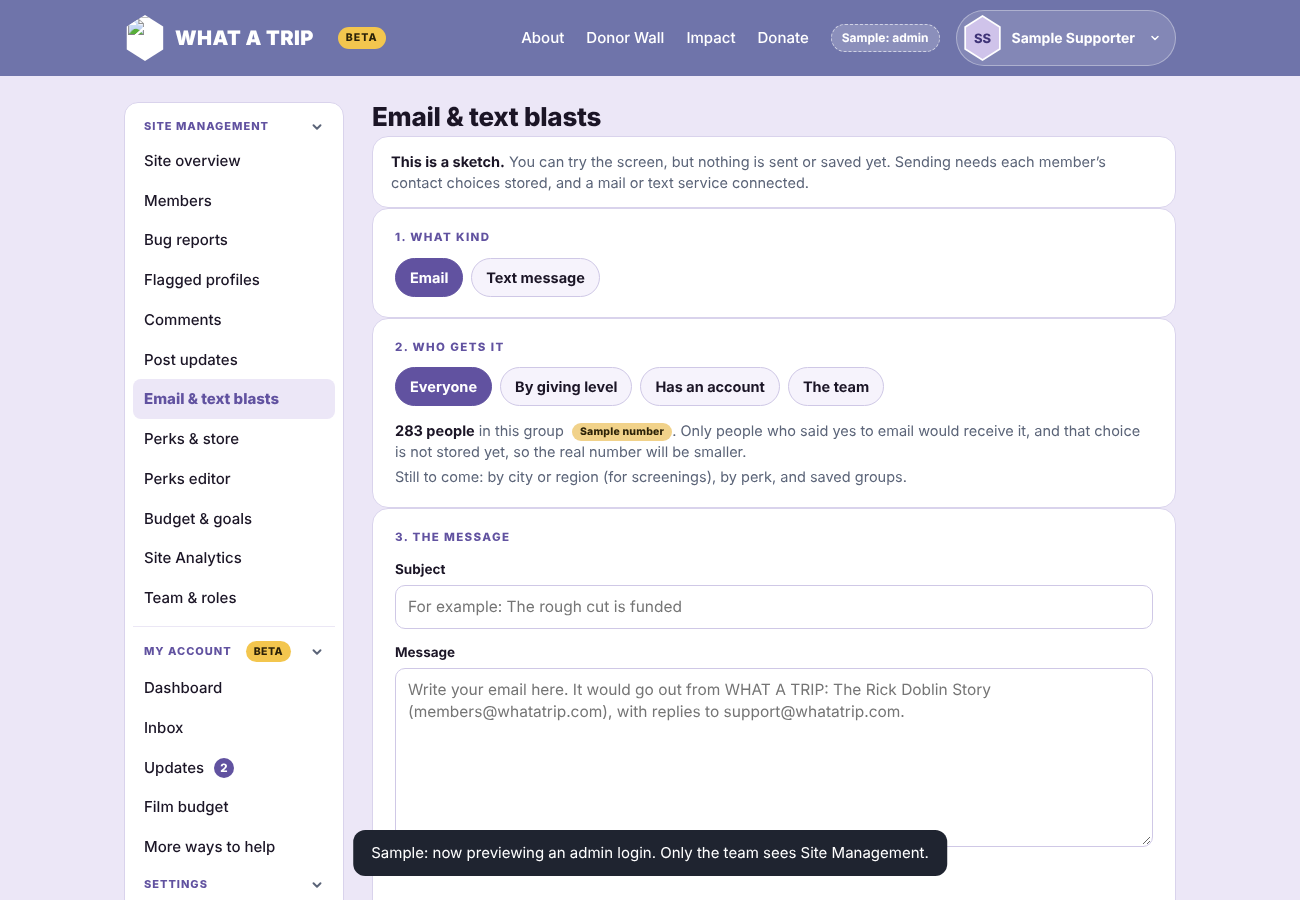
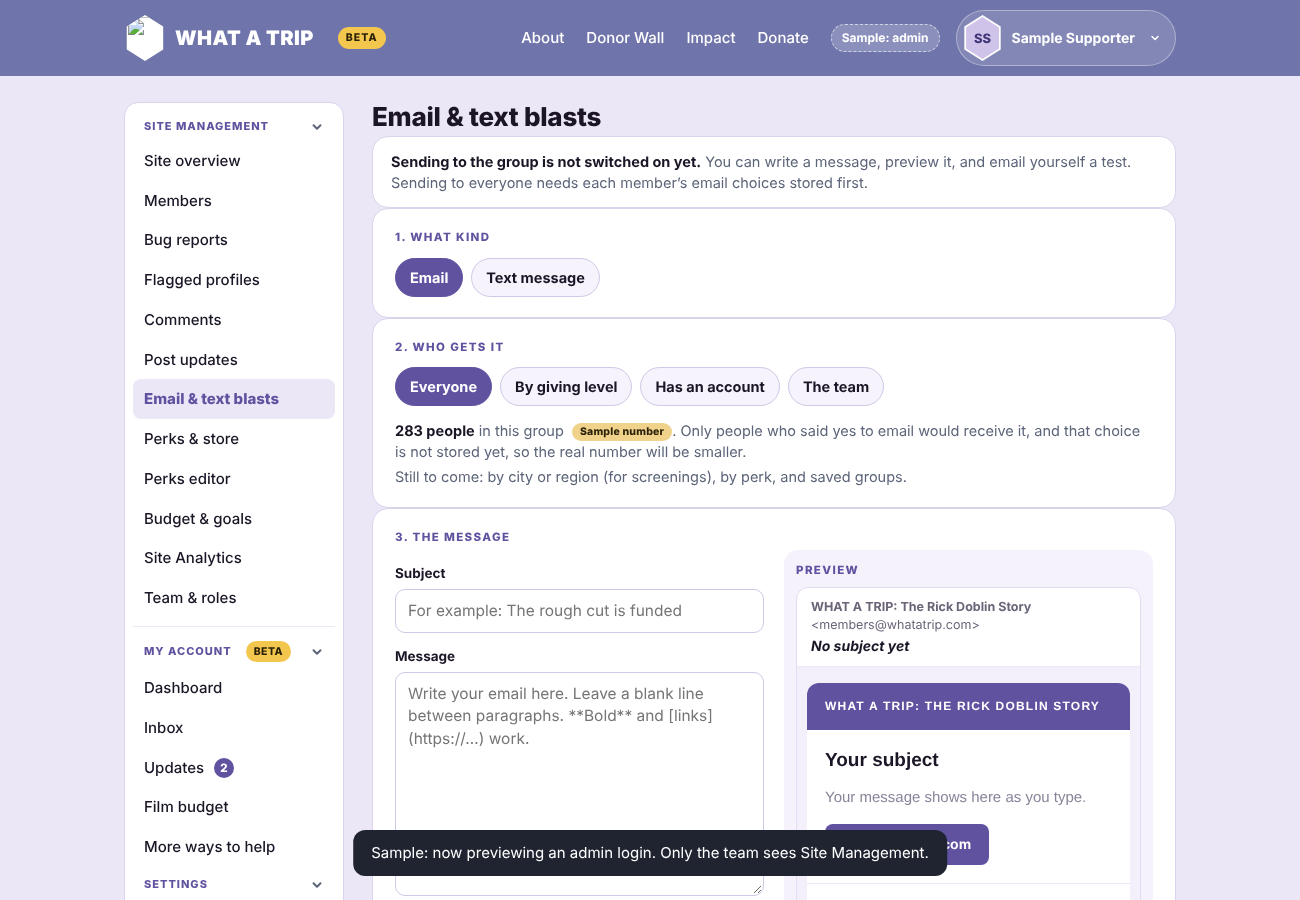
Blasts: live email/text preview and real 'Send a test to me' (blast-test function)
Claude-Session: https://claude.ai/code/session_01B4g6Jr5SafogaXZoJmXf7b

diff --git a/home-page/home-block.html b/home-page/home-block.html
@@ -1853,6 +1853,15 @@ html.wath-framed :is(#wath,#wath-top) .pvb{display:none}
 #wath .suplist.scr{max-height:var(--suph);overflow-y:auto;overflow-x:hidden;overscroll-behavior-y:auto;scrollbar-width:thin;scrollbar-color:#cfc6ea transparent;-webkit-mask-image:linear-gradient(to bottom,transparent 0,#000 14px,#000 calc(100% - 28px),transparent 100%);mask-image:linear-gradient(to bottom,transparent 0,#000 14px,#000 calc(100% - 28px),transparent 100%);padding-top:6px;padding-bottom:22px}
 #wath .suplist.scr::-webkit-scrollbar{width:6px}#wath .suplist.scr::-webkit-scrollbar-thumb{background:#cfc6ea;border-radius:6px}
 #wath .suplist>.dn.bgrow.bgin .av{transition:transform .26s cubic-bezier(.2,1.6,.4,1)!important}
+.mov .blg{display:grid;grid-template-columns:minmax(0,1fr) minmax(0,1fr);gap:20px;align-items:start}
+@media (max-width:860px){.mov .blg{grid-template-columns:1fr}}
+.mov .blpv{padding:12px;border-radius:14px;background:#f5f2fc}
+.mov .blem{border-radius:12px;overflow:hidden;border:1px solid #e3ddf3;background:#fff;margin-top:8px}
+.mov .blemh{display:flex;flex-direction:column;gap:2px;padding:10px 14px;border-bottom:1px solid #ece7f7;font-size:12.5px;color:#6b6478}
+.mov .blemh .blsub{font-size:14px;font-weight:700;color:#1b1526}
+.mov .blph{margin:8px auto 0;max-width:300px;padding:18px 14px 14px;border-radius:26px;background:#fff;border:1px solid #e3ddf3}
+.mov .blbub{display:inline-block;max-width:85%;padding:10px 13px;border-radius:18px 18px 18px 6px;background:#ece9f3;color:#1b1526;font-size:14px;line-height:1.4}
+.mov .blphf{display:block;margin-top:8px;font-size:11.5px;color:#8a849a}
 .mov .adots{position:relative;display:inline-flex}
 .mov .amng button.adotb{width:36px!important;height:36px!important;min-width:36px;box-sizing:border-box;flex:none;border-radius:50%;border:1px solid rgba(27,21,38,.16);background:#fff;color:#1b1526;display:inline-flex;align-items:center;justify-content:center;cursor:pointer;padding:0}
 .mov .amng button.adotb:hover{background:#f1eef8}
@@ -2998,11 +3007,19 @@ var BUG_ICO='<svg class="mbug" aria-hidden="true" width="17" height="17" viewBox
    Nothing is sent. Sending needs members' contact choices saved in the database and a mail / text service plugged in. */
 var BL={kind:'email',aud:'all',lvl:5000,role:'any'};
 function blastCount(){if(!LIVE)return {n:BL.aud==='all'?283:BL.aud==='level'?Math.max(2,Math.round(140000/(BL.lvl+900))):BL.aud==='team'?3:24,smp:1};if(!LV.rows)return null;var R=LV.rows.filter(function(x){return !x.sample});return {n:(BL.aud==='level'?R.filter(function(x){return x.total>=BL.lvl}):BL.aud==='team'?R.filter(function(x){return x.role}):BL.aud==='in'?R.filter(function(x){return x.inn}):R).length}}
+/* Nov 18 6:37am (Nirvan): blasts show a live preview, and an email blast can be sent as a test to yourself first (edge function blast-test, same layout the real blast will use) */
+function blInline(x){return esc(x).replace(/\*\*([^*]+)\*\*/g,'<b>$1</b>').replace(/\[([^\]]+)\]\((https?:\/\/[^)\s]+)\)/g,'<a href="$2" target="_blank" rel="noopener" style="color:#6152a0">$1</a>').replace(/\n/g,'<br>')}
+function blSms(){var t=String(BL.sms||'').trim();return (t?t+'\n':'')+'WHAT A TRIP. Reply STOP to opt out.'}
+function blPreview(){if(BL.kind==='text')return '<div class="blph"><div class="blbub">'+esc(blSms()).replace(/\n/g,'<br>')+'</div><span class="blphf">Text from WHAT A TRIP</span></div>';var P=String(BL.msg||'').replace(/\r/g,'').split(/\n\s*\n/).map(function(x){return x.trim()}).filter(Boolean);
+  return '<div class="blem"><div class="blemh"><span class="blfrom"><b>WHAT A TRIP: The Rick Doblin Story</b> &lt;members@whatatrip.com&gt;</span><span class="blsub">'+(BL.subj?esc(BL.subj):'<i>No subject yet</i>')+'</span></div><div style="background:#f3f0fb;padding:16px 10px"><div style="font-family:Helvetica,Arial,sans-serif;font-size:15px;line-height:1.55;color:#1b1526;max-width:560px;margin:0 auto;background:#fff;border-radius:12px;overflow:hidden"><div style="background:#6152a0;color:#fff;padding:14px 18px;font-size:12px;font-weight:bold;letter-spacing:.1em">WHAT A TRIP: THE RICK DOBLIN STORY</div><div style="padding:18px"><p style="font-size:19px;font-weight:bold;line-height:1.3;margin:0 0 12px">'+esc(BL.subj||'Your subject')+'</p>'+(P.length?P.map(function(x){return '<p style="margin:0 0 12px">'+blInline(x)+'</p>'}).join(''):'<p style="margin:0 0 12px;color:#8a849a">Your message shows here as you type.</p>')+'<p style="margin:16px 0 0"><span style="display:inline-block;background:#6152a0;color:#fff;font-weight:bold;padding:10px 18px;border-radius:8px;font-size:14px">Visit whatatrip.com</span></p></div><div style="padding:12px 18px;border-top:1px solid #ece7f7;color:#6b6478;font-size:12px;line-height:1.5">You are getting this because you support WHAT A TRIP. To change which emails you get, log in at whatatrip.com and open Notifications &amp; privacy.</div></div></div></div>'}
+function blTest(){if(!String(BL.subj||'').trim()||!String(BL.msg||'').trim()){toast('Please add a subject and a message first.');return}if(!LIVE){toast('Preview only: on the live site this emails the test to your login address.');return}if(!SB)return;BL.busy=1;renderMember();
+  SB.functions.invoke('blast-test',{body:{subject:BL.subj,message:BL.msg}}).then(function(r){BL.busy=0;renderMember();var d=r&&r.data;if(r&&r.error){var st=r.error.context&&r.error.context.status;toast(st===403?'Only Owners and Admins can send tests.':'The test could not be sent. Please try again.');return}if(d&&d.sent)toast('Test sent to '+d.to+'. It can take a minute to arrive.');else toast(d&&d.reason==='not_set_up'?'Email sending is not switched on yet (the Resend key is missing in Supabase).':'The test could not be sent. Please try again.')},function(){BL.busy=0;renderMember();toast('The test could not be sent. Please check your connection.')})}
 function blastTab(){if(LIVE&&!LV.rows&&!LV.rowsBusy)liveAdmLoad();var k=BL.kind,c=blastCount(),A=[['all','Everyone'],['level','By giving level'],['in','Has an account'],['team','The team']],chip=function(a,v,l,on){return '<button class="mchip'+(on?' on':'')+'" data-a="'+a+'" data-t="'+v+'">'+l+'</button>'};
-  return '<h2>Email &amp; text blasts</h2><div class="mcard" style="padding:14px 18px"><p class="msub" style="margin:0"><b style="color:#1b1526">This is a sketch.</b> You can try the screen, but nothing is sent or saved yet. Sending needs each member’s contact choices stored, and a mail or text service connected.</p></div>'
+  return '<h2>Email &amp; text blasts</h2><div class="mcard" style="padding:14px 18px"><p class="msub" style="margin:0"><b style="color:#1b1526">Sending to the group is not switched on yet.</b> You can write a message, preview it, and email yourself a test. Sending to everyone needs each member’s email choices stored first.</p></div>'
    +'<div class="mcard"><span class="mtag">1. WHAT KIND</span><div class="mchips">'+chip('blk','email','Email',k==='email')+chip('blk','text','Text message',k==='text')+'</div></div>'
    +'<div class="mcard"><span class="mtag">2. WHO GETS IT</span><div class="mchips">'+A.map(function(a){return chip('bla',a[0],a[1],BL.aud===a[0])}).join('')+'</div>'+(BL.aud==='level'?'<label class="mf"><span>Everyone who has given at least</span><select data-blv aria-label="Giving level">'+LEVELS.map(function(l){return '<option value="'+l.min+'"'+(BL.lvl===l.min?' selected':'')+'>'+l.l+' · '+esc(l.n)+'</option>'}).join('')+'</select></label>':'')+'<p class="msub" style="margin:14px 0 0">'+(c?'<b style="color:#1b1526">'+c.n+' '+(c.n===1?'person':'people')+'</b> in this group'+(c.smp?' <span class="asmp">Sample number</span>':'')+'. ':'Counting… ')+'Only people who said yes to '+(k==='email'?'email':'texts')+' would receive it, and that choice is not stored yet, so the real number will be smaller.</p><p class="msub">Still to come: by city or region (for screenings), by perk, and saved groups.</p></div>'
-   +'<div class="mcard"><span class="mtag">3. THE MESSAGE</span>'+(k==='email'?'<label class="mf"><span>Subject</span><input maxlength="120" placeholder="For example: The rough cut is funded" autocomplete="off"></label><label class="mf"><span>Message</span><textarea rows="7" placeholder="Write your email here. It would go out from WHAT A TRIP: The Rick Doblin Story (members@whatatrip.com), with replies to support@whatatrip.com."></textarea></label>':'<label class="mf"><span>Text message</span><textarea rows="4" maxlength="320" placeholder="Keep it short. Texts would end with: Reply STOP to opt out."></textarea><em>Up to 320 characters. Texting also needs a texting service and carrier registration, which takes a few weeks to set up.</em></label>')+'<div class="amb" style="margin-top:14px"><button class="btn pri" data-a="toast" data-t="Sketch only: nothing was sent. Sending is not connected yet.">Send a test to me</button><button class="btn" data-a="toast" data-t="Sketch only: drafts are not saved yet.">Save draft</button></div></div>'
+   +'<div class="mcard"><span class="mtag">3. THE MESSAGE</span><div class="blg"><div>'+(k==='email'?'<label class="mf"><span>Subject</span><input data-bl="subj" maxlength="120" value="'+esc(BL.subj||'')+'" placeholder="For example: The rough cut is funded" autocomplete="off"></label><label class="mf"><span>Message</span><textarea data-bl="msg" rows="9" placeholder="Write your email here. Leave a blank line between paragraphs. **Bold** and [links](https://…) work.">'+esc(BL.msg||'')+'</textarea><em>Goes out from WHAT A TRIP: The Rick Doblin Story (members@whatatrip.com). Replies go to info@whatatrip.com.</em></label>':'<label class="mf"><span>Text message</span><textarea data-bl="sms" rows="5" maxlength="320" placeholder="Keep it short.">'+esc(BL.sms||'')+'</textarea><em><span data-blcnt>'+blSms().length+'</span> of 320 characters, including the opt-out line. Texting also needs a texting service and carrier registration, which takes a few weeks to set up.</em></label>')
+     +'<div class="amb" style="margin-top:14px">'+(k==='email'?'<button class="btn pri" data-a="bltest"'+(BL.busy?' disabled':'')+'>'+(BL.busy?'Sending…':'Send a test to me')+'</button>':'<button class="btn" disabled title="Needs a texting service">Send a test text (not set up yet)</button>')+'<button class="btn" data-a="toast" data-t="Drafts are kept on this screen until you leave it. Saving drafts comes with real sending.">Save draft</button></div>'+(k==='email'?'<p class="msub">The test goes only to you, at '+esc(LIVE?((LV.sess&&LV.sess.user&&LV.sess.user.email)||'your login email'):'your login email')+', with [Test] in the subject, so you can see exactly how it arrives.</p>':'')+'</div><div class="blpv"><span class="mtag">PREVIEW</span><div data-blpv>'+blPreview()+'</div></div></div></div>'
    +'<div class="mcard"><span class="mtag">HOW THIS WOULD CONNECT</span><p class="msub" style="margin:0">Email could go out through Resend (already used for log-in and invitation emails) or the group could be handed to a list tool. A record of each blast, with who received it, could be copied one way into the Nirvana CRM. Nothing from Nirvana would come back into this site.</p></div>'}
 function memSide(){var k=MEM.tab,pg=memPage(k),adm=ADM.on,tl=staffTools(),it=[['home','Dashboard'],['inbox','Inbox'],['updates','Updates'],['budget','Film budget'],['help','More ways to help']],st=[['profile','Profile'],['settings','Notifications &amp; privacy'],['perks','My perks'],['password','Password']];
   var btn=function(x){var on=!adm&&(x[0]==='help'?k==='help':x[0]==='home'?(pg==='home'&&k!=='help'):/^(profile|settings|password)$/.test(x[0])?k===x[0]:pg===x[0]);return '<button class="msn g-me'+(on?' on':'')+'" data-m="tab" data-t="'+x[0]+'">'+(x[0]==='report'?BUG_ICO:'')+x[1]+(x[0]==='updates'?memBdg():x[0]==='inbox'?inBdg():'')+'</button>'};
@@ -3084,7 +3101,7 @@ function renderAdmin(o){var al=staffTools();if(!al.length){ADM.on=false;renderMe
   o.innerHTML='<div class="mtop">'+memHead(0)+'</div><div class="mbody"><div class="minner mmain"><div class="mside">'+memSide()+'<div class="msmain2">'+admTab()+'</div></div></div></div>';
   var nv=o.querySelector('.msnav'),non=nv&&nv.querySelector('.msn.on');if(non&&nv.scrollWidth>nv.clientWidth+2)nv.scrollLeft=Math.max(0,non.offsetLeft-nv.offsetLeft-14);
   if(keep){var s2=o.querySelector('.mbody');if(s2)s2.scrollTop=y}}
-function admClick(t){var a=t.getAttribute('data-a'),v=t.getAttribute('data-t');if(LIVE&&a==='review'){liveReview(v==='1');return}if(LIVE&&a==='reload'){LV.rows=null;renderMember();return}if(a==='blk'){BL.kind=v==='text'?'text':'email';renderMember();return}if(a==='bla'){BL.aud=v;renderMember();return}if(LIVE&&a==='msave'){liveMemberSave(t);return}if(LIVE&&a==='mdots'){ADM.dots=ADM.dots===ADM.sel?'':ADM.sel;renderMember();return}if(LIVE&&a==='medit'){ADM.dots='';ADM.flag='';ADM.edit=v||'';renderMember();return}if(LIVE&&a==='mflag'){ADM.dots='';ADM.edit='';ADM.flag=v;renderMember();var fr=T.querySelector('.mov [data-flagr]');if(fr)fr.focus();return}if(LIVE&&a==='flagx'){ADM.flag='';renderMember();return}if(LIVE&&a==='flaggo'){liveFlag();return}if(LIVE&&a==='fres'){liveFlagResolve(v);return}if(LIVE&&a==='mphrm'){liveStaffPhotoRemove();return}if(LIVE&&a==='fopen'){ADM.tab='sup';ADM.sel=v;ADM.edit='';ADM.flag='';LV.det=null;renderMember();return}if(LIVE&&a==='madd'){ADM.add=!!v;LV.addErr='';if(v){ADM.sel='';LV.det=null}renderMember();var ai=T.querySelector('.mov [data-nm=email]');if(ai)ai.focus();return}if(LIVE&&a==='maddgo'){liveMemberAdd(t);return}if(LIVE&&a==='mdel'){liveDelAsk(v,t.getAttribute('data-n'));return}if(LIVE&&a==='bugreload'){LV.allReports=null;renderMember();return}if(LIVE&&a==='invite'){liveInvite();return}if(LIVE&&a==='reinvite'){liveInvite(v,t.getAttribute('data-r'));return}if(LIVE&&a==='pperm'){livePperm(v);return}
+function admClick(t){var a=t.getAttribute('data-a'),v=t.getAttribute('data-t');if(LIVE&&a==='review'){liveReview(v==='1');return}if(LIVE&&a==='reload'){LV.rows=null;renderMember();return}if(a==='blk'){BL.kind=v==='text'?'text':'email';renderMember();return}if(a==='bla'){BL.aud=v;renderMember();return}if(LIVE&&a==='msave'){liveMemberSave(t);return}if(LIVE&&a==='mdots'){ADM.dots=ADM.dots===ADM.sel?'':ADM.sel;renderMember();return}if(LIVE&&a==='medit'){ADM.dots='';ADM.flag='';ADM.edit=v||'';renderMember();return}if(LIVE&&a==='mflag'){ADM.dots='';ADM.edit='';ADM.flag=v;renderMember();var fr=T.querySelector('.mov [data-flagr]');if(fr)fr.focus();return}if(LIVE&&a==='flagx'){ADM.flag='';renderMember();return}if(LIVE&&a==='flaggo'){liveFlag();return}if(LIVE&&a==='fres'){liveFlagResolve(v);return}if(LIVE&&a==='mphrm'){liveStaffPhotoRemove();return}if(LIVE&&a==='fopen'){ADM.tab='sup';ADM.sel=v;ADM.edit='';ADM.flag='';LV.det=null;renderMember();return}if(LIVE&&a==='madd'){ADM.add=!!v;LV.addErr='';if(v){ADM.sel='';LV.det=null}renderMember();var ai=T.querySelector('.mov [data-nm=email]');if(ai)ai.focus();return}if(LIVE&&a==='maddgo'){liveMemberAdd(t);return}if(LIVE&&a==='mdel'){liveDelAsk(v,t.getAttribute('data-n'));return}if(LIVE&&a==='bugreload'){LV.allReports=null;renderMember();return}if(LIVE&&a==='invite'){liveInvite();return}if(LIVE&&a==='reinvite'){liveInvite(v,t.getAttribute('data-r'));return}if(LIVE&&a==='pperm'){livePperm(v);return}if(a==='bltest'){blTest();return}
 if(a==='mgive'||a==='mact'){if(a==='mact'){toast(v==='challenge'?'They put up a matching challenge. See Matching challenges on the page.':v==='event'?'They hosted an event that raised money for the film.':'They started a fundraiser.');return}ADM.sel=v;ADM.gfirst=1;ADM.del='';ADM.edit='';ADM.dots='';ADM.add=false;LV.det=null;renderMember();setTimeout(function(){var g=T.querySelector('.mov #wat-mgifts');if(g)g.scrollIntoView({block:'start'})},300);return}
 if(a==='gaddo'){ADM.gadd=true;renderMember();var gi=T.querySelector('.mov [data-gn=amount]');if(gi)gi.focus();return}if(a==='gaddx'){ADM.gadd=false;renderMember();return}
 if(a==='gedit'){ADM.gedit=v;renderMember();return}if(a==='gcancel'){ADM.gedit='';renderMember();return}if(a==='hmore'){ADM.hopen=!ADM.hopen;renderMember();return}
@@ -3206,6 +3223,7 @@ T.addEventListener('input',function(e){var el=e.target;if(!el.closest||!el.close
   if(f){var x=d.levels[PKE.lv][+el.getAttribute('data-j')];if(!x)return;if(f==='soon')x.soon=el.checked?1:0;else x[f]=el.value;if(f==='t'&&(x.ico||'auto')==='auto'){var bt=T.querySelector('.mov [data-pke="ico"][data-j="'+el.getAttribute('data-j')+'"]');if(bt){var s=pkAuto(x.t);bt.innerHTML=(s?pkSvg(s):'<span class="pkeni">No icon</span>')+'<svg class="chev" aria-hidden="true" width="12" height="12" viewBox="0 0 16 16" fill="none" stroke="currentColor" stroke-width="2.2" stroke-linecap="round" stroke-linejoin="round"><path d="M4 6l4 4 4-4"/></svg>'}}}
   else if(g){var id=el.getAttribute('data-gid'),ge=d.gpk[id]=d.gpk[id]||pkClone(PKDEF.gpk[id]);if(g==='terms')ge.terms=el.value.split('\n');else if(g==='fmv')ge.fmv=Math.max(0,+el.value||0);else ge[g]=el.value}else return;pkeRefresh()});
 T.addEventListener('change',function(e){if(e.target.matches&&e.target.matches('.mov .pke [data-pkf="soon"]'))pkeRefresh()});
+T.addEventListener('input',function(e){var el=e.target,k=el.getAttribute&&el.getAttribute('data-bl');if(!k)return;BL[k]=el.value;var pv=T.querySelector('.mov [data-blpv]');if(pv)pv.innerHTML=blPreview();var c=T.querySelector('.mov [data-blcnt]');if(c)c.textContent=blSms().length});
 T.addEventListener('toggle',function(e){var dt=e.target;if(dt.classList&&dt.classList.contains('pked')){PKE.open=PKE.open||{};PKE.open[dt.getAttribute('data-gid')]=dt.open}},true);
 R.addEventListener('click',function(e){var b=e.target.closest&&e.target.closest('[data-pkedit]');if(!b)return;e.preventDefault();e.stopPropagation();var p=b.getAttribute('data-pkedit').split('|');pkeOpen(+p[0],p[1]===''?null:+p[1])});
 R.addEventListener('click',function(e){var t=e.target.closest&&e.target.closest('.pkt');if(!t||!R.contains(t))return;e.preventDefault();e.stopPropagation();var was=t.classList.contains('on');[].forEach.call(R.querySelectorAll('.pkt.on'),function(x){x.classList.remove('on')});if(!was)t.classList.add('on')},true);

diff --git a/home-page/src/app.js b/home-page/src/app.js
@@ -1074,11 +1074,19 @@ var BUG_ICO='<svg class="mbug" aria-hidden="true" width="17" height="17" viewBox
    Nothing is sent. Sending needs members' contact choices saved in the database and a mail / text service plugged in. */
 var BL={kind:'email',aud:'all',lvl:5000,role:'any'};
 function blastCount(){if(!LIVE)return {n:BL.aud==='all'?283:BL.aud==='level'?Math.max(2,Math.round(140000/(BL.lvl+900))):BL.aud==='team'?3:24,smp:1};if(!LV.rows)return null;var R=LV.rows.filter(function(x){return !x.sample});return {n:(BL.aud==='level'?R.filter(function(x){return x.total>=BL.lvl}):BL.aud==='team'?R.filter(function(x){return x.role}):BL.aud==='in'?R.filter(function(x){return x.inn}):R).length}}
+/* Nov 18 6:37am (Nirvan): blasts show a live preview, and an email blast can be sent as a test to yourself first (edge function blast-test, same layout the real blast will use) */
+function blInline(x){return esc(x).replace(/\*\*([^*]+)\*\*/g,'<b>$1</b>').replace(/\[([^\]]+)\]\((https?:\/\/[^)\s]+)\)/g,'<a href="$2" target="_blank" rel="noopener" style="color:#6152a0">$1</a>').replace(/\n/g,'<br>')}
+function blSms(){var t=String(BL.sms||'').trim();return (t?t+'\n':'')+'WHAT A TRIP. Reply STOP to opt out.'}
+function blPreview(){if(BL.kind==='text')return '<div class="blph"><div class="blbub">'+esc(blSms()).replace(/\n/g,'<br>')+'</div><span class="blphf">Text from WHAT A TRIP</span></div>';var P=String(BL.msg||'').replace(/\r/g,'').split(/\n\s*\n/).map(function(x){return x.trim()}).filter(Boolean);
+  return '<div class="blem"><div class="blemh"><span class="blfrom"><b>WHAT A TRIP: The Rick Doblin Story</b> &lt;members@whatatrip.com&gt;</span><span class="blsub">'+(BL.subj?esc(BL.subj):'<i>No subject yet</i>')+'</span></div><div style="background:#f3f0fb;padding:16px 10px"><div style="font-family:Helvetica,Arial,sans-serif;font-size:15px;line-height:1.55;color:#1b1526;max-width:560px;margin:0 auto;background:#fff;border-radius:12px;overflow:hidden"><div style="background:#6152a0;color:#fff;padding:14px 18px;font-size:12px;font-weight:bold;letter-spacing:.1em">WHAT A TRIP: THE RICK DOBLIN STORY</div><div style="padding:18px"><p style="font-size:19px;font-weight:bold;line-height:1.3;margin:0 0 12px">'+esc(BL.subj||'Your subject')+'</p>'+(P.length?P.map(function(x){return '<p style="margin:0 0 12px">'+blInline(x)+'</p>'}).join(''):'<p style="margin:0 0 12px;color:#8a849a">Your message shows here as you type.</p>')+'<p style="margin:16px 0 0"><span style="display:inline-block;background:#6152a0;color:#fff;font-weight:bold;padding:10px 18px;border-radius:8px;font-size:14px">Visit whatatrip.com</span></p></div><div style="padding:12px 18px;border-top:1px solid #ece7f7;color:#6b6478;font-size:12px;line-height:1.5">You are getting this because you support WHAT A TRIP. To change which emails you get, log in at whatatrip.com and open Notifications &amp; privacy.</div></div></div></div>'}
+function blTest(){if(!String(BL.subj||'').trim()||!String(BL.msg||'').trim()){toast('Please add a subject and a message first.');return}if(!LIVE){toast('Preview only: on the live site this emails the test to your login address.');return}if(!SB)return;BL.busy=1;renderMember();
+  SB.functions.invoke('blast-test',{body:{subject:BL.subj,message:BL.msg}}).then(function(r){BL.busy=0;renderMember();var d=r&&r.data;if(r&&r.error){var st=r.error.context&&r.error.context.status;toast(st===403?'Only Owners and Admins can send tests.':'The test could not be sent. Please try again.');return}if(d&&d.sent)toast('Test sent to '+d.to+'. It can take a minute to arrive.');else toast(d&&d.reason==='not_set_up'?'Email sending is not switched on yet (the Resend key is missing in Supabase).':'The test could not be sent. Please try again.')},function(){BL.busy=0;renderMember();toast('The test could not be sent. Please check your connection.')})}
 function blastTab(){if(LIVE&&!LV.rows&&!LV.rowsBusy)liveAdmLoad();var k=BL.kind,c=blastCount(),A=[['all','Everyone'],['level','By giving level'],['in','Has an account'],['team','The team']],chip=function(a,v,l,on){return '<button class="mchip'+(on?' on':'')+'" data-a="'+a+'" data-t="'+v+'">'+l+'</button>'};
-  return '<h2>Email &amp; text blasts</h2><div class="mcard" style="padding:14px 18px"><p class="msub" style="margin:0"><b style="color:#1b1526">This is a sketch.</b> You can try the screen, but nothing is sent or saved yet. Sending needs each member’s contact choices stored, and a mail or text service connected.</p></div>'
+  return '<h2>Email &amp; text blasts</h2><div class="mcard" style="padding:14px 18px"><p class="msub" style="margin:0"><b style="color:#1b1526">Sending to the group is not switched on yet.</b> You can write a message, preview it, and email yourself a test. Sending to everyone needs each member’s email choices stored first.</p></div>'
    +'<div class="mcard"><span class="mtag">1. WHAT KIND</span><div class="mchips">'+chip('blk','email','Email',k==='email')+chip('blk','text','Text message',k==='text')+'</div></div>'
    +'<div class="mcard"><span class="mtag">2. WHO GETS IT</span><div class="mchips">'+A.map(function(a){return chip('bla',a[0],a[1],BL.aud===a[0])}).join('')+'</div>'+(BL.aud==='level'?'<label class="mf"><span>Everyone who has given at least</span><select data-blv aria-label="Giving level">'+LEVELS.map(function(l){return '<option value="'+l.min+'"'+(BL.lvl===l.min?' selected':'')+'>'+l.l+' · '+esc(l.n)+'</option>'}).join('')+'</select></label>':'')+'<p class="msub" style="margin:14px 0 0">'+(c?'<b style="color:#1b1526">'+c.n+' '+(c.n===1?'person':'people')+'</b> in this group'+(c.smp?' <span class="asmp">Sample number</span>':'')+'. ':'Counting… ')+'Only people who said yes to '+(k==='email'?'email':'texts')+' would receive it, and that choice is not stored yet, so the real number will be smaller.</p><p class="msub">Still to come: by city or region (for screenings), by perk, and saved groups.</p></div>'
-   +'<div class="mcard"><span class="mtag">3. THE MESSAGE</span>'+(k==='email'?'<label class="mf"><span>Subject</span><input maxlength="120" placeholder="For example: The rough cut is funded" autocomplete="off"></label><label class="mf"><span>Message</span><textarea rows="7" placeholder="Write your email here. It would go out from WHAT A TRIP: The Rick Doblin Story (members@whatatrip.com), with replies to support@whatatrip.com."></textarea></label>':'<label class="mf"><span>Text message</span><textarea rows="4" maxlength="320" placeholder="Keep it short. Texts would end with: Reply STOP to opt out."></textarea><em>Up to 320 characters. Texting also needs a texting service and carrier registration, which takes a few weeks to set up.</em></label>')+'<div class="amb" style="margin-top:14px"><button class="btn pri" data-a="toast" data-t="Sketch only: nothing was sent. Sending is not connected yet.">Send a test to me</button><button class="btn" data-a="toast" data-t="Sketch only: drafts are not saved yet.">Save draft</button></div></div>'
+   +'<div class="mcard"><span class="mtag">3. THE MESSAGE</span><div class="blg"><div>'+(k==='email'?'<label class="mf"><span>Subject</span><input data-bl="subj" maxlength="120" value="'+esc(BL.subj||'')+'" placeholder="For example: The rough cut is funded" autocomplete="off"></label><label class="mf"><span>Message</span><textarea data-bl="msg" rows="9" placeholder="Write your email here. Leave a blank line between paragraphs. **Bold** and [links](https://…) work.">'+esc(BL.msg||'')+'</textarea><em>Goes out from WHAT A TRIP: The Rick Doblin Story (members@whatatrip.com). Replies go to info@whatatrip.com.</em></label>':'<label class="mf"><span>Text message</span><textarea data-bl="sms" rows="5" maxlength="320" placeholder="Keep it short.">'+esc(BL.sms||'')+'</textarea><em><span data-blcnt>'+blSms().length+'</span> of 320 characters, including the opt-out line. Texting also needs a texting service and carrier registration, which takes a few weeks to set up.</em></label>')
+     +'<div class="amb" style="margin-top:14px">'+(k==='email'?'<button class="btn pri" data-a="bltest"'+(BL.busy?' disabled':'')+'>'+(BL.busy?'Sending…':'Send a test to me')+'</button>':'<button class="btn" disabled title="Needs a texting service">Send a test text (not set up yet)</button>')+'<button class="btn" data-a="toast" data-t="Drafts are kept on this screen until you leave it. Saving drafts comes with real sending.">Save draft</button></div>'+(k==='email'?'<p class="msub">The test goes only to you, at '+esc(LIVE?((LV.sess&&LV.sess.user&&LV.sess.user.email)||'your login email'):'your login email')+', with [Test] in the subject, so you can see exactly how it arrives.</p>':'')+'</div><div class="blpv"><span class="mtag">PREVIEW</span><div data-blpv>'+blPreview()+'</div></div></div></div>'
    +'<div class="mcard"><span class="mtag">HOW THIS WOULD CONNECT</span><p class="msub" style="margin:0">Email could go out through Resend (already used for log-in and invitation emails) or the group could be handed to a list tool. A record of each blast, with who received it, could be copied one way into the Nirvana CRM. Nothing from Nirvana would come back into this site.</p></div>'}
 function memSide(){var k=MEM.tab,pg=memPage(k),adm=ADM.on,tl=staffTools(),it=[['home','Dashboard'],['inbox','Inbox'],['updates','Updates'],['budget','Film budget'],['help','More ways to help']],st=[['profile','Profile'],['settings','Notifications &amp; privacy'],['perks','My perks'],['password','Password']];
   var btn=function(x){var on=!adm&&(x[0]==='help'?k==='help':x[0]==='home'?(pg==='home'&&k!=='help'):/^(profile|settings|password)$/.test(x[0])?k===x[0]:pg===x[0]);return '<button class="msn g-me'+(on?' on':'')+'" data-m="tab" data-t="'+x[0]+'">'+(x[0]==='report'?BUG_ICO:'')+x[1]+(x[0]==='updates'?memBdg():x[0]==='inbox'?inBdg():'')+'</button>'};
@@ -1160,7 +1168,7 @@ function renderAdmin(o){var al=staffTools();if(!al.length){ADM.on=false;renderMe
   o.innerHTML='<div class="mtop">'+memHead(0)+'</div><div class="mbody"><div class="minner mmain"><div class="mside">'+memSide()+'<div class="msmain2">'+admTab()+'</div></div></div></div>';
   var nv=o.querySelector('.msnav'),non=nv&&nv.querySelector('.msn.on');if(non&&nv.scrollWidth>nv.clientWidth+2)nv.scrollLeft=Math.max(0,non.offsetLeft-nv.offsetLeft-14);
   if(keep){var s2=o.querySelector('.mbody');if(s2)s2.scrollTop=y}}
-function admClick(t){var a=t.getAttribute('data-a'),v=t.getAttribute('data-t');if(LIVE&&a==='review'){liveReview(v==='1');return}if(LIVE&&a==='reload'){LV.rows=null;renderMember();return}if(a==='blk'){BL.kind=v==='text'?'text':'email';renderMember();return}if(a==='bla'){BL.aud=v;renderMember();return}if(LIVE&&a==='msave'){liveMemberSave(t);return}if(LIVE&&a==='mdots'){ADM.dots=ADM.dots===ADM.sel?'':ADM.sel;renderMember();return}if(LIVE&&a==='medit'){ADM.dots='';ADM.flag='';ADM.edit=v||'';renderMember();return}if(LIVE&&a==='mflag'){ADM.dots='';ADM.edit='';ADM.flag=v;renderMember();var fr=T.querySelector('.mov [data-flagr]');if(fr)fr.focus();return}if(LIVE&&a==='flagx'){ADM.flag='';renderMember();return}if(LIVE&&a==='flaggo'){liveFlag();return}if(LIVE&&a==='fres'){liveFlagResolve(v);return}if(LIVE&&a==='mphrm'){liveStaffPhotoRemove();return}if(LIVE&&a==='fopen'){ADM.tab='sup';ADM.sel=v;ADM.edit='';ADM.flag='';LV.det=null;renderMember();return}if(LIVE&&a==='madd'){ADM.add=!!v;LV.addErr='';if(v){ADM.sel='';LV.det=null}renderMember();var ai=T.querySelector('.mov [data-nm=email]');if(ai)ai.focus();return}if(LIVE&&a==='maddgo'){liveMemberAdd(t);return}if(LIVE&&a==='mdel'){liveDelAsk(v,t.getAttribute('data-n'));return}if(LIVE&&a==='bugreload'){LV.allReports=null;renderMember();return}if(LIVE&&a==='invite'){liveInvite();return}if(LIVE&&a==='reinvite'){liveInvite(v,t.getAttribute('data-r'));return}if(LIVE&&a==='pperm'){livePperm(v);return}
+function admClick(t){var a=t.getAttribute('data-a'),v=t.getAttribute('data-t');if(LIVE&&a==='review'){liveReview(v==='1');return}if(LIVE&&a==='reload'){LV.rows=null;renderMember();return}if(a==='blk'){BL.kind=v==='text'?'text':'email';renderMember();return}if(a==='bla'){BL.aud=v;renderMember();return}if(LIVE&&a==='msave'){liveMemberSave(t);return}if(LIVE&&a==='mdots'){ADM.dots=ADM.dots===ADM.sel?'':ADM.sel;renderMember();return}if(LIVE&&a==='medit'){ADM.dots='';ADM.flag='';ADM.edit=v||'';renderMember();return}if(LIVE&&a==='mflag'){ADM.dots='';ADM.edit='';ADM.flag=v;renderMember();var fr=T.querySelector('.mov [data-flagr]');if(fr)fr.focus();return}if(LIVE&&a==='flagx'){ADM.flag='';renderMember();return}if(LIVE&&a==='flaggo'){liveFlag();return}if(LIVE&&a==='fres'){liveFlagResolve(v);return}if(LIVE&&a==='mphrm'){liveStaffPhotoRemove();return}if(LIVE&&a==='fopen'){ADM.tab='sup';ADM.sel=v;ADM.edit='';ADM.flag='';LV.det=null;renderMember();return}if(LIVE&&a==='madd'){ADM.add=!!v;LV.addErr='';if(v){ADM.sel='';LV.det=null}renderMember();var ai=T.querySelector('.mov [data-nm=email]');if(ai)ai.focus();return}if(LIVE&&a==='maddgo'){liveMemberAdd(t);return}if(LIVE&&a==='mdel'){liveDelAsk(v,t.getAttribute('data-n'));return}if(LIVE&&a==='bugreload'){LV.allReports=null;renderMember();return}if(LIVE&&a==='invite'){liveInvite();return}if(LIVE&&a==='reinvite'){liveInvite(v,t.getAttribute('data-r'));return}if(LIVE&&a==='pperm'){livePperm(v);return}if(a==='bltest'){blTest();return}
 if(a==='mgive'||a==='mact'){if(a==='mact'){toast(v==='challenge'?'They put up a matching challenge. See Matching challenges on the page.':v==='event'?'They hosted an event that raised money for the film.':'They started a fundraiser.');return}ADM.sel=v;ADM.gfirst=1;ADM.del='';ADM.edit='';ADM.dots='';ADM.add=false;LV.det=null;renderMember();setTimeout(function(){var g=T.querySelector('.mov #wat-mgifts');if(g)g.scrollIntoView({block:'start'})},300);return}
 if(a==='gaddo'){ADM.gadd=true;renderMember();var gi=T.querySelector('.mov [data-gn=amount]');if(gi)gi.focus();return}if(a==='gaddx'){ADM.gadd=false;renderMember();return}
 if(a==='gedit'){ADM.gedit=v;renderMember();return}if(a==='gcancel'){ADM.gedit='';renderMember();return}if(a==='hmore'){ADM.hopen=!ADM.hopen;renderMember();return}
@@ -1282,6 +1290,7 @@ T.addEventListener('input',function(e){var el=e.target;if(!el.closest||!el.close
   if(f){var x=d.levels[PKE.lv][+el.getAttribute('data-j')];if(!x)return;if(f==='soon')x.soon=el.checked?1:0;else x[f]=el.value;if(f==='t'&&(x.ico||'auto')==='auto'){var bt=T.querySelector('.mov [data-pke="ico"][data-j="'+el.getAttribute('data-j')+'"]');if(bt){var s=pkAuto(x.t);bt.innerHTML=(s?pkSvg(s):'<span class="pkeni">No icon</span>')+'<svg class="chev" aria-hidden="true" width="12" height="12" viewBox="0 0 16 16" fill="none" stroke="currentColor" stroke-width="2.2" stroke-linecap="round" stroke-linejoin="round"><path d="M4 6l4 4 4-4"/></svg>'}}}
   else if(g){var id=el.getAttribute('data-gid'),ge=d.gpk[id]=d.gpk[id]||pkClone(PKDEF.gpk[id]);if(g==='terms')ge.terms=el.value.split('\n');else if(g==='fmv')ge.fmv=Math.max(0,+el.value||0);else ge[g]=el.value}else return;pkeRefresh()});
 T.addEventListener('change',function(e){if(e.target.matches&&e.target.matches('.mov .pke [data-pkf="soon"]'))pkeRefresh()});
+T.addEventListener('input',function(e){var el=e.target,k=el.getAttribute&&el.getAttribute('data-bl');if(!k)return;BL[k]=el.value;var pv=T.querySelector('.mov [data-blpv]');if(pv)pv.innerHTML=blPreview();var c=T.querySelector('.mov [data-blcnt]');if(c)c.textContent=blSms().length});
 T.addEventListener('toggle',function(e){var dt=e.target;if(dt.classList&&dt.classList.contains('pked')){PKE.open=PKE.open||{};PKE.open[dt.getAttribute('data-gid')]=dt.open}},true);
 R.addEventListener('click',function(e){var b=e.target.closest&&e.target.closest('[data-pkedit]');if(!b)return;e.preventDefault();e.stopPropagation();var p=b.getAttribute('data-pkedit').split('|');pkeOpen(+p[0],p[1]===''?null:+p[1])});
 R.addEventListener('click',function(e){var t=e.target.closest&&e.target.closest('.pkt');if(!t||!R.contains(t))return;e.preventDefault();e.stopPropagation();var was=t.classList.contains('on');[].forEach.call(R.querySelectorAll('.pkt.on'),function(x){x.classList.remove('on')});if(!was)t.classList.add('on')},true);

diff --git a/home-page/src/build.py b/home-page/src/build.py
@@ -1888,6 +1888,15 @@ extra+="""
 #wath .suplist.scr{max-height:var(--suph);overflow-y:auto;overflow-x:hidden;overscroll-behavior-y:auto;scrollbar-width:thin;scrollbar-color:#cfc6ea transparent;-webkit-mask-image:linear-gradient(to bottom,transparent 0,#000 14px,#000 calc(100% - 28px),transparent 100%);mask-image:linear-gradient(to bottom,transparent 0,#000 14px,#000 calc(100% - 28px),transparent 100%);padding-top:6px;padding-bottom:22px}
 #wath .suplist.scr::-webkit-scrollbar{width:6px}#wath .suplist.scr::-webkit-scrollbar-thumb{background:#cfc6ea;border-radius:6px}
 #wath .suplist>.dn.bgrow.bgin .av{transition:transform .26s cubic-bezier(.2,1.6,.4,1)!important}
+.mov .blg{display:grid;grid-template-columns:minmax(0,1fr) minmax(0,1fr);gap:20px;align-items:start}
+@media (max-width:860px){.mov .blg{grid-template-columns:1fr}}
+.mov .blpv{padding:12px;border-radius:14px;background:#f5f2fc}
+.mov .blem{border-radius:12px;overflow:hidden;border:1px solid #e3ddf3;background:#fff;margin-top:8px}
+.mov .blemh{display:flex;flex-direction:column;gap:2px;padding:10px 14px;border-bottom:1px solid #ece7f7;font-size:12.5px;color:#6b6478}
+.mov .blemh .blsub{font-size:14px;font-weight:700;color:#1b1526}
+.mov .blph{margin:8px auto 0;max-width:300px;padding:18px 14px 14px;border-radius:26px;background:#fff;border:1px solid #e3ddf3}
+.mov .blbub{display:inline-block;max-width:85%;padding:10px 13px;border-radius:18px 18px 18px 6px;background:#ece9f3;color:#1b1526;font-size:14px;line-height:1.4}
+.mov .blphf{display:block;margin-top:8px;font-size:11.5px;color:#8a849a}
 .mov .adots{position:relative;display:inline-flex}
 .mov .amng button.adotb{width:36px!important;height:36px!important;min-width:36px;box-sizing:border-box;flex:none;border-radius:50%;border:1px solid rgba(27,21,38,.16);background:#fff;color:#1b1526;display:inline-flex;align-items:center;justify-content:center;cursor:pointer;padding:0}
 .mov .amng button.adotb:hover{background:#f1eef8}
